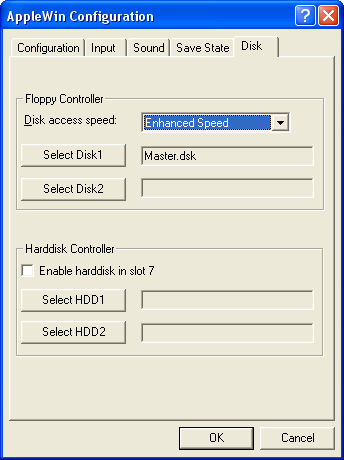
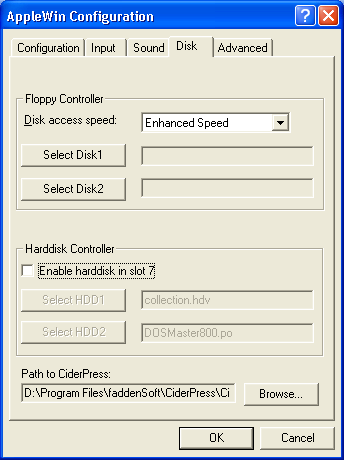
Update html-help files

diff --git a/help/keyboard.html b/help/keyboard.html
@@ -44,8 +44,7 @@
 			again to resume emulation.</p>
 		<p><span style="font-weight: bold;">Scroll Lock:</span><br>
 			Holding down the PC's
-			<span style="font-style: italic;">Scroll
-Lock</span>
+			<span style="font-style: italic;">Scroll Lock</span>
 			key temporarily sets the emulation to full speed (i.e. unthrottled).<br>
 			NOTE:&nbsp; The status of the PC's
 			<span style="font-style: italic;">Scroll Lock</span>
@@ -55,25 +54,22 @@ Lock</span>
 		<p><span style="font-weight: bold;">Shift+Insert:</span><br>
 			Paste text from Windows' clipboard. Text gets fed a character at a time to the 
 			Apple's keyboard hardware. The 'CR+LF' combination&nbsp;gets converted to CR.</p>
-		<p>
-			<span style="font-weight: bold;">Function Keys
-F1-F8:</span><br>
+		<p><span style="font-weight: bold;">Function Keys F1-F8:</span><br>
 			These PC function keys correspond to buttons on the <a href="toolbar.html">toolbar</a>.</p>
 		<p><span style="font-weight: bold;">Function Key F9:</span><br>
 			This PC function key will cycle through AppleWin's display modes:&nbsp; 
 			monochrome (custom), color (normal), color (text optimized), color (TV 
 			emulation), etc. This shortcut allows you to switch display modes without going 
-			through the configuration dialog.</p><span style="font-weight: bold;">Function Key F9 + Ctrl:<br></span>This
-PC function key will cycle through AppleWin's character sets:&nbsp;
-original Apple II charsets and clones' charsets. This shortcut allows
-you to override the default character sets of the Apple II model or clone.
-		<p><span style="font-weight: bold;">Function Key F10 (or
-Ctrl+left mouse button):</span><br>
+			through the configuration dialog. <br>NB. Use Shift+F9 to reverse-cycle the display modes.</p>
+		<p><span style="font-weight: bold;">Function Key F9 + Ctrl:<br></span>This
+            PC function key will cycle through AppleWin's character sets:&nbsp;
+            original Apple II charsets and clones' charsets. This shortcut allows
+            you to override the default character sets of the Apple II model or clone.</p>
+		<p><span style="font-weight: bold;">Function Key F10 (or Ctrl+left mouse button):</span><br>
 			This PC function key will stop emulating an Apple joystick with the PC's mouse.<br>In
-Pravets 8A emulation mode it servers as Caps Lock and Ctrl+ F10 shall
-be used to stop emulating an Apple joystick with the PC's mouse.</p>
-		<p><span style="font-weight: bold;">Function Keys
-F11-F12:</span><br>
+            Pravets 8A emulation mode it servers as Caps Lock and Ctrl+F10 shall
+            be used to stop emulating an Apple joystick with the PC's mouse.</p>
+		<p><span style="font-weight: bold;">Function Keys F11-F12:</span><br>
 			These PC function keys correspond to saving/loading a <a href="savestate.html">save-state</a>
 			file.</p>
 	</body></html>

diff --git a/help/cfg-input.html b/help/cfg-input.html
@@ -20,20 +20,43 @@ These options allow you to configure up to two joysticks attached to
 the emulated Apple //e system.<br>
 
 <ul>
-
   <li>Joystick 1/2: Choose the emulation method for joysticks 1 and 2.</li>
-
-
   <li>X/Y-trim: &nbsp;These controls&nbsp;add a trim value to the
 joystick X/Y offsets when the joystick is centered. Normally central
 position is X=127, Y=127 so this adds the trim value for PC joysticks
 &amp; keyboard (centering). If you are using an analog PC joystick,
 then you should leave these values at 0.</li>
-
 </ul>
 
-<strong>Paste from clipboard:</strong><br>
 
+<strong>Scroll Lock acts as toggle for full-speed CPU:</strong><br>
+<ul>
+  <li>When checked, you can permanently enable full-speed CPU when Scroll Lock is on.</li>
+  <li>When unchecked, only when Scroll Lock is depressed will you get full-speed CPU.</li>
+</ul>
+
+
+<strong>Mouse interface in slot 4:</strong><br>
+
+<ul>
+  <li>Disables joystick emulation with mouse.</li>
+  <li>Disables Mockingboard/Phasor in slot 4.</li>
+  <li>Show crosshairs in window's frame:</li>
+  <ul>
+    <li>Configure whether you want crosshairs or not</li>
+  </ul>
+  <li>Restrict mouse to Apple window:</li>
+  <ul>
+    <li>Resticting is useful for paint applications</li>
+    <li>When unrestricted, the emulated mouse is fully integrated with the Window desktop:
+moving in and out of the AppleWin window will switch between Windows' and the Apple's mouse cursor.</li>
+    <li>NB. Even when unrestricted, you won't be able to move the mouse outside the Apple window for GEOS. This is not a bug.</li>
+    <li>Tip: Use Ctrl+Left Mouse Button to show the Windows mouse cursor (eg. essential for GEOS).</li>
+  </ul>
+</ul>
+
+
+<strong>Paste from clipboard:</strong><br>
 Pressing this button will allow you to paste text from the
 Windows' clipboard into the emulated Apple //e.<br>
 

diff --git a/help/cfg-advanced.html b/help/cfg-advanced.html
@@ -3,7 +3,7 @@
 <head>
 
   <meta http-equiv="Content-Type" content="text/html; charset=windows-1252">
-  <title>Save State Settings</title>
+  <title>Advanced Settings</title>
 
 
 </head>
@@ -11,9 +11,9 @@
 
 <body style="background-color: rgb(255, 255, 255); font-family: verdana;" alink="#008000" link="#008000" vlink="#008000">
 
-<h2 style="color: rgb(0, 128, 0);">Save State Settings</h2>
+<h2 style="color: rgb(0, 128, 0);">Advanced Settings</h2>
 
-<hr size="4"><img style="width: 344px; height: 460px; float: right;" src="img/savestate.png" alt="Save State settings" hspace="5" vspace="5">
+<hr size="4"><img style="width: 344px; height: 460px; float: right;" src="img/advanced.png" alt="Advanced settings" hspace="5" vspace="5">
 <p><strong>Save State File Name:</strong><br>
 
 This is the file name to use for save-state files. The default
@@ -36,6 +36,15 @@ emulation by pressing the F11 key.</p>
 Press this button to load the specified state file into
 the emulator. &nbsp;You can also load the system state during
 emulation by pressing the F12 key.</p>
+
+<p><strong>Clone:</strong><br>
+
+If you have specified Computer as 'Clone' on the main Configuration page, then this drop-down menu can be used to specify the clone type.<br>
+NB. Pravets 82 and 8A are Bulgarian Apple II clones.<br>
+
+<p><strong>The Freeze's non-autostart F8 rom:</strong><br>
+If you have specified Computer as 'Apple ][' or 'Apple ][+' on the main Configuration page, then you will be able to enable this setting.
+The Freeze F8 rom is a hacker's rom that replaces the normal 2K rom at $F800. <a href="cfg-advanced-freeze-rom.html">Here's the original release note</a>
 
 </body>
 </html>

diff --git a/help/cfg-advanced-freeze-rom.html b/help/cfg-advanced-freeze-rom.html
@@ -1,0 +1,57 @@
+<!DOCTYPE HTML PUBLIC "-//W3C//DTD HTML 4.01 Transitional//EN">
+<html>
+<head>
+
+  <meta http-equiv="Content-Type" content="text/html; charset=windows-1252">
+  <title>Advanced Settings</title>
+
+
+</head>
+
+<span style="font-family: Courier">
+=-------------------------------------=<br>
+=-> Freeze's F-8 ROM &nbsp;A PPG release <-=<br>
+=-------------------------------------=<br>
+
+&nbsp;The Freeze's F-8 ROM is a modified F-8<br>
+rom that has several added features.<br><br>
+
+-Old Monitor Reset<br>
+-Step and Trace modes<br>
+-Disassembly with ASCII<br>
+-Disassembly with Binary in #Mode<br>
+-Better sounding bell!<br><br>
+
+&nbsp;These advanced features make Monitor<br>
+programming and Cracking much easier.<br><br>
+
+&nbsp;There are two ways you can use this<br>
+program. Either load it into the RAM<br>
+Card using the FREEZE.INSTALL program.<br>
+The other way is to burn it onto a<br>
+2716 EPROM (Schematics later).<br><br>
+
+&nbsp;The only thing that really need an<br>
+explanation is the disassembly. In the<br>
+disassembly, it displays the ASCII<br>
+value of the byte to the right. The<br>
+binary numbers on the far right are<br>
+displayed when an instruction on the<br>
+accumulator in immediate mode is<br>
+encountered.<br><br>
+
+2716 Schematics<br>
+===============<br><br>
+
+&nbsp;I would suggest that you do these<br>
+modifications to a socket rather than<br>
+directly to the chip...<br><br>
+
+&nbsp;First, cut off pins 21 and 18.<br>
+Connect pins 12 and 18<br>
+Connect pins 21 and 24<br>
+
+--------------------------------------- </span>
+
+</body>
+</html>

diff --git a/help/contact.html b/help/contact.html
@@ -1,19 +1,20 @@
 <!DOCTYPE HTML PUBLIC "-//W3C//DTD HTML 4.01 Transitional//EN">
 <html>
 	<head>
-		<title>Contacting the Author</title>
+		<title>Contacting the Developers</title>
 		<meta http-equiv="Content-Type" content="text/html; charset=windows-1252">
 	</head>
 	<body style="FONT-FAMILY: verdana; BACKGROUND-COLOR: rgb(255,255,255)" vLink="#008000"
 		aLink="#008000" link="#008000">
-		<h2><font color="#008000">Contacting the developers</font></h2>
+		<h2><font color="#008000">Contacting the Developers</font></h2>
 		<P>
 			<hr SIZE="4">
 		<P></P>
 		<P><br>
 			To contact the&nbsp;project administrators, email:<br>
 			<A href="mailto:tomch@users.berlios.de">Tom Charlesworth</A><br>
-			<A href="mailto:mpohoreski@users.berlios.de">Michael&nbsp;Pohoreski</A></P>
+			<A href="mailto:mpohoreski@users.berlios.de">Michael&nbsp;Pohoreski</A><br>
+			<A href="mailto:nick_westgate@users.berlios.de">Nick&nbsp;Westgate</A></P>
 		<br>
 		<P>Bug reports should be submitted here:<br>
 			<A href="https://developer.berlios.de/bugs/?func=addbug&amp;group_id=6117">https://developer.berlios.de/bugs/?func=addbug&amp;group_id=6117</A>

diff --git a/help/cfg-config.html b/help/cfg-config.html
@@ -16,10 +16,14 @@
 		<ul>
 			<li>
 			Apple ][ : Non-autobooting, 64K machine, no lower-case, no 80-column, 6502 CPU
-			<LI>
-			Apple ][+ :&nbsp;Autobooting version of the Apple ][&nbsp;
 			<li>
-				Apple //e : 128K machine, lower-case, 80-column, 65C02 CPU</li>
+			Apple ][+ : Autobooting version of the Apple ][
+			<li>
+			Apple //e : 128K machine, lower-case, 80-column, 6502 CPU</li>
+			<li>
+			Enhanced Apple //e : 128K machine, lower-case, 80-column, 65C02 CPU</li>
+			<li>
+			Clone (specific model selectable from Advanced page)</li>
 		</ul>
 		<strong>Video:</strong><br>
 		AppleWin can display Apple video in a variety of modes. The display can also be 
@@ -51,7 +55,7 @@
 		<P>
 			<strong>Serial Port:<br>
 			</strong>This option will remap the emulated Apple's serial port to your PC's 
-			serial port. The Apple Super Serial Card is partially emulated in slot-2.<br>
+			serial port. The Apple Super Serial Card is emulated in slot-2.<br>
 			<STRONG>
 				<BR>
 				Ethernet Settings...:</STRONG>

diff --git a/help/savestate.html b/help/savestate.html
@@ -18,8 +18,8 @@
 		<p>The entire Apple //e state is saved to a file (.aws). This includes Disk][ (even 
 			during r/w operation) and Mockingboards.</p>
 		<p><span style="FONT-WEIGHT: bold">1</span>
-			Currently the harddisk state is not persisted to the .aws file. Phasor and 
-			Uthernet cards are not persisted either.</p>
+			Currently the harddisk state is not persisted to the .aws file. Phasor,
+			Uthernet and Mouse cards are not persisted either.</p>
 		<p>Note: Only the file names of the disk images are stored in the .aws (not the 
 			full path). This allows you to move your disk image around or distribute them. 
 			If AppleWin can't locate the disk image(s), then it will prompt for the new 

diff --git a/help/CommandLine.html b/help/CommandLine.html
@@ -18,7 +18,9 @@
 		-f<br>
 		Start in full-screen mode<br><br>
 		-r &lt;number of pages&gt;<br>
-		Emulate a RAMworks III card with 1 to 127 pages (each page is 64K, giving a max of 8MB)<br>
+		Emulate a RAMworks III card with 1 to 127 pages (each page is 64K, giving a max of 8MB)<br><br>
+		-f8rom &lt;rom-file&gt;<br>
+		Use custom 2K ROM at [$F800..$FFFF]. &lt;rom-file&gt; must be 2048 bytes long<br>
 		<P>&nbsp;</P>
 		<P style="FONT-WEIGHT: bold">Debug arguments:
 		</P>

diff --git a/help/applewin-team.html b/help/applewin-team.html
@@ -10,7 +10,7 @@
             AppleWin team</h2>
 		<hr size="4">
 		<p>
-            Tom Charlesworth</p>
+            Tom Charlesworth (Project lead)</p>
         <p>
             Michael Pohoreski (Debugger rewrite)</p>
         <p>
@@ -19,5 +19,7 @@
             Linards Ticmanis (Illegal/undefined opcodes)</p>
         <p>
             Glenn Jones (Uthernet card)</p>
+        <p>
+            Stannev (Pravets - Bulgarian Apple][ clone)</p>
 	</body>
 </html>

diff --git a/help/acknowledgements.html b/help/acknowledgements.html
@@ -14,5 +14,6 @@
 		<p style="MARGIN-LEFT: 40px">Robert Hoem: Harddisk card (source module &amp; f/w)</p>
 		<P style="MARGIN-LEFT: 40px">
 			Spiro Trikaliotis: (VICE) whose code Glenn Jones adapted for Uthernet support</P>
+		<p style="MARGIN-LEFT: 40px">Kyle Kim: Mouse card support based on code from Apple in PC</p>
 	</body>
 </html>

diff --git a/help/cfg-disk.html b/help/cfg-disk.html
@@ -84,5 +84,10 @@ Copy][+ which is fixed in later versions.</li>
 </ul>
 
 
+<strong>Path to CiderPress:</strong><br>
+
+Use this to specify where CiderPress is installed.<br>
+The right button context menu on either of the drive icons allows you to open CiderPress with the image in the drive.
+
 </body>
 </html>
